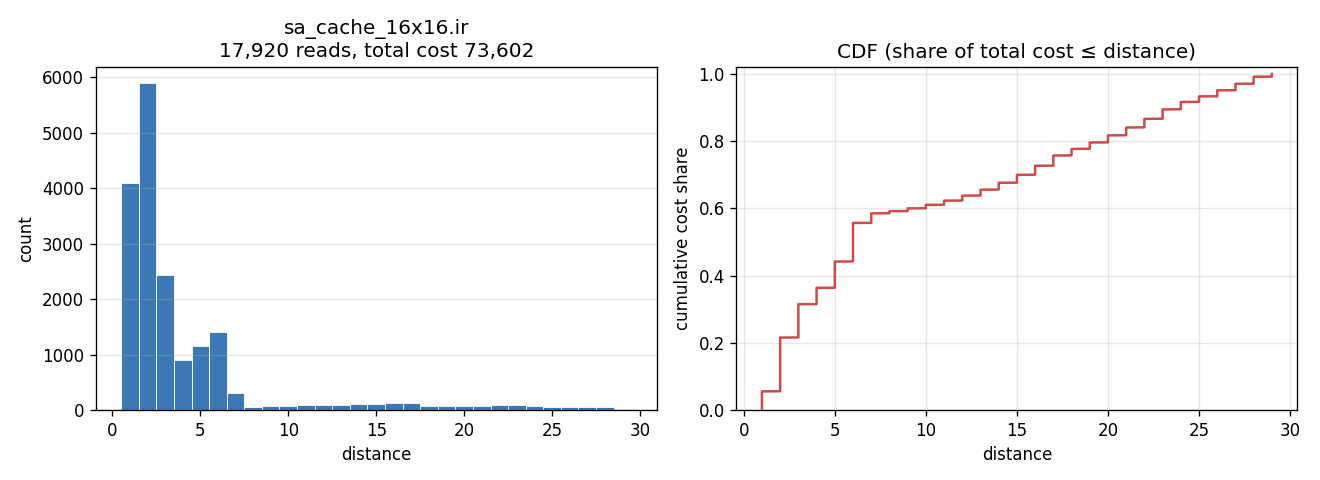
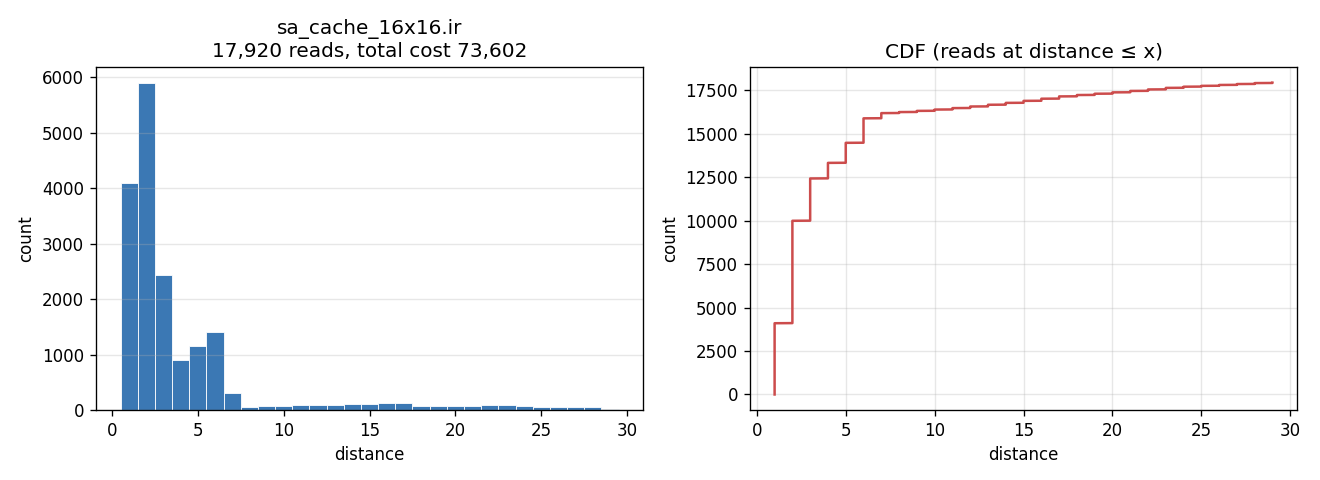
matmul: switch CDF y-axis to raw read counts (no normalization)

diff --git a/matmul/access_distance_plots/plot_access_distances.py b/matmul/access_distance_plots/plot_access_distances.py
@@ -80,12 +80,11 @@ def plot_one(ir_path: Path, out_path: Path) -> int:
     ax_h.grid(axis="y", alpha=0.3)
 
     sorted_d = np.sort(distances)
-    cumulative_cost = np.cumsum(sorted_d) / total_cost
-    ax_c.plot(sorted_d, cumulative_cost, color="#cc4c4c", linewidth=1.5)
+    cumulative_count = np.arange(1, len(sorted_d) + 1)
+    ax_c.plot(sorted_d, cumulative_count, color="#cc4c4c", linewidth=1.5)
     ax_c.set_xlabel("distance")
-    ax_c.set_ylabel("cumulative cost share")
-    ax_c.set_title("CDF (share of total cost ≤ distance)")
-    ax_c.set_ylim(0, 1.02)
+    ax_c.set_ylabel("count")
+    ax_c.set_title("CDF (reads at distance ≤ x)")
     ax_c.grid(alpha=0.3)
 
     plt.tight_layout()
@@ -100,14 +99,13 @@ def plot_combined_cdf(ir_names: List[str], out_path: Path) -> None:
     for name, color in zip(ir_names, colors):
         ir_path = SUBMISSIONS / name
         distances = np.sort(collect_read_distances(ir_path.read_text()))
-        total = distances.sum()
-        cumulative = np.cumsum(distances) / total
+        total = int(distances.sum())
+        cumulative = np.arange(1, len(distances) + 1)
         ax.plot(distances, cumulative, label=f"{name}  (cost {total:,})",
                 color=color, linewidth=1.8)
     ax.set_xlabel("distance")
-    ax.set_ylabel("cumulative cost share")
-    ax.set_title("CDF — share of total cost at distance ≤ x")
-    ax.set_ylim(0, 1.02)
+    ax.set_ylabel("count")
+    ax.set_title("CDF — reads at distance ≤ x")
     ax.grid(alpha=0.3)
     ax.legend(loc="lower right", fontsize=9)
     plt.tight_layout()
